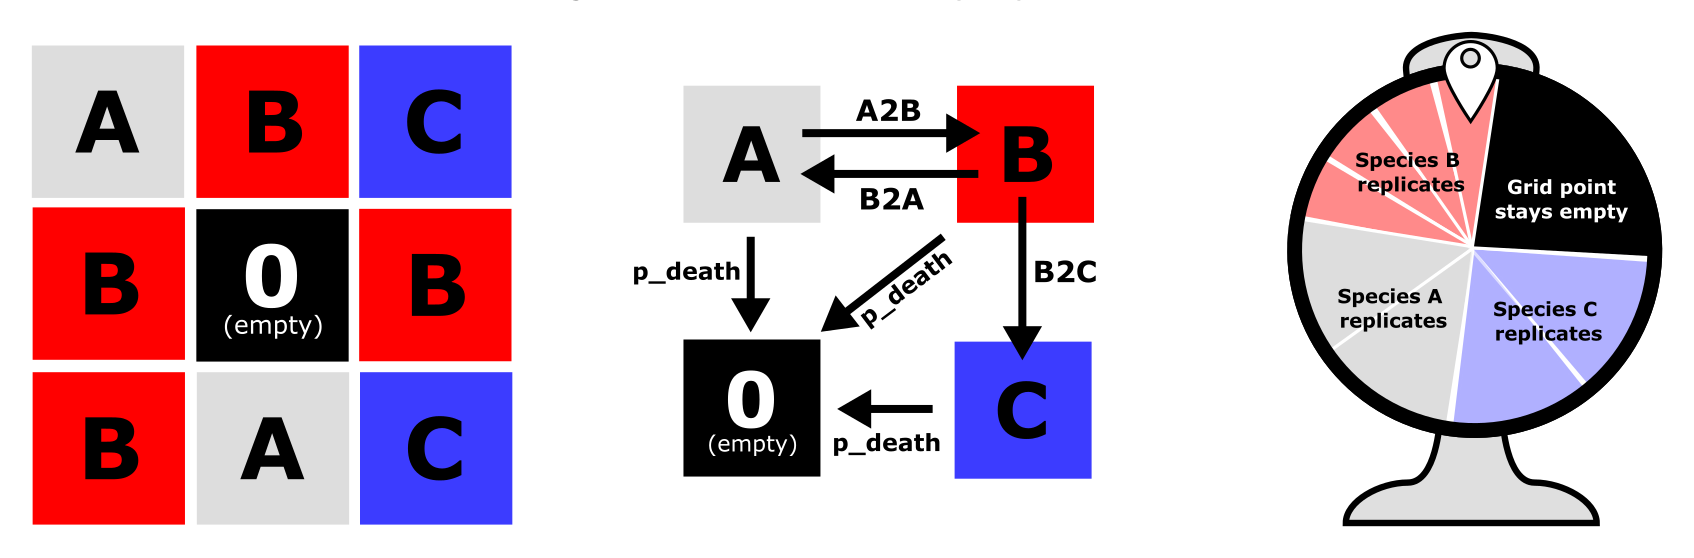
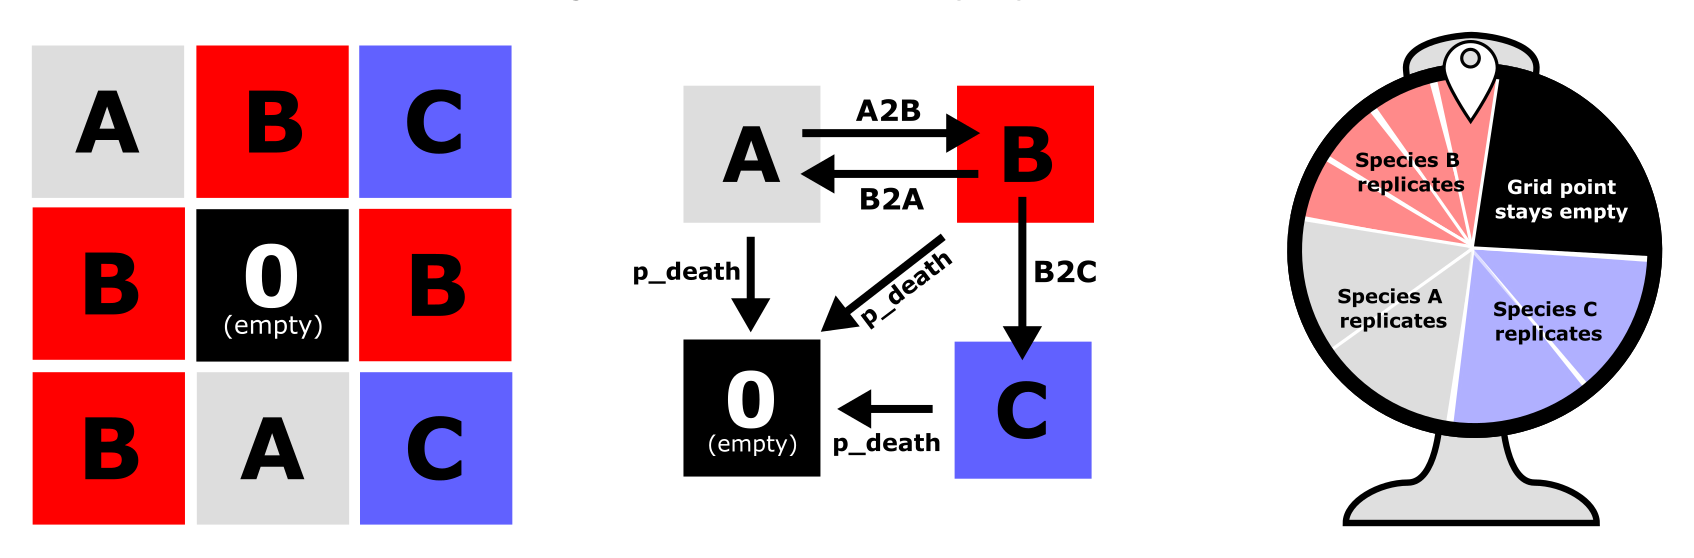
Updated TE model for revision

Changed region(s): [[0.2149, 0.0609, 0.307, 0.3656], [0.2149, 0.6398, 0.307, 0.9444], [0.5525, 0.6093, 0.6446, 0.8835]]

diff --git a/docs/index.html b/docs/index.html
@@ -36,9 +36,9 @@
                 ncol : 200,            
                 nrow : 200,		                                            // dimensions of the grid to build                
                 scale : 2,				                                    // scale of the grid (nxn pixels per grid point)            
-                statecolours: {'species':{1:"silver",                      // Sets up colours of states (here 1,2,3 = A,B,C). Can be a colour name or a hexadecimal colour. 
-                                        2:"teal",                          // If your state it not defined, it won't be drawn and you'll see the grid-background colour (default: black)
-                                        3:"gold"}}                 
+                statecolours: {'species':{1:"#DDDDDD",                      // Sets up colours of states (here 1,2,3 = A,B,C). Can be a colour name or a hexadecimal colour. 
+                                      2:"red",                          // If your state it not defined, it won't be drawn and you'll see the grid-background colour (default: black)
+                                      3:"#3030ff"}}              
         }
 
         
@@ -46,7 +46,7 @@
         
         sim.makeGridmodel("cheaters")                                        // Make a new gridmodel named cheater
         sim.initialGrid(sim.cheaters,'species',1,0.33,2,0.33,3,0.33)         // Place the three 'species' in grid points (33% A, 33% B, 33% C)            
-        sim.createDisplay("cheaters","species")                              // Display the 'species' property of the cheater grid
+        sim.createDisplay("cheaters","species","Cacatoo example")                              // Display the 'species' property of the cheater grid
 
         sim.cheaters.nextState = function(i,j)                               // Define the next-state function. This example is two mutualists and a cheater
         {         
@@ -144,11 +144,12 @@
             </td>
             <td>    <div id="form_holder"></div>
             </td>
-            <td>    <br><br><br><br>    <div id="graph_holder"> </div>
+            <td>    <br><br><br><br>    </div>
             </div>
             </td>
         </tr>
     </table>
+    <div id="graph_holder">
 </center>
     <br><br>
    

diff --git a/docs/overview.html b/docs/overview.html
@@ -24,12 +24,37 @@
     <h1 class="page-title"><a href="https://github.com/bramvandijk88/cacatoo"><img src="images/elephant_cacatoo_small.png"></a> <b>Overview</b> </img></h1>
 
 Cacatoo is a javascript-library that simulates discrete individuals, and how they interact, on a grid. Individual-based models are a powerful method to
-explore intractable biological systems and therewith generate new insights or hypotheses. In this tutorial, I will briefly explain the motivation behind 
-Cacatoo, where 
-the base "scaffolding" of a Cacatoo model, and XXX
+explore intractable biological systems and therewith generate new insights or hypotheses. In this tutorial, I will briefly explain:
 
-Grids are a computationally efficient way to
-simulate spatial structure, 
+<ol>
+    <li> Why I made Cacatoo </li>
+    <ul><li>Why grid-based models are awesome</li></ul>
+    <ul><li>The need to upgrade Cash2.1</li></ul>
+    <ul><li>Why Javascript?</li></ul>
+
+    <li> How to get Cacatoo </li>
+    <ul><li>Code and explore online (replit)</li></ul>
+    <ul><li>Clone and explore offline</li></ul>    
+
+    <li> The basic structure of a Cacatoo model </li>
+    <ul><li>Setup</li></ul>
+    <ul><li>Defining the rules</li></ul>
+    <ul><li>Main simulation loop</li></ul>
+
+    <li> The advantage of a dynamic programming language </li>
+</ol>
+<br>
+<hr>
+<br>
+<h3> Why I made Cacatoo</h3>
+
+The first thing you may be wondering is: why would I model biology on a grid? Would a continuous space not be much more realistic, where
+individuals can move freely and interact when they are closeby? Although Cacatoo may include such models in the future, here is why it 
+primarily about grid-based models for now:
+
+
+<br><br>
+
 
 as it avoids having to calculate the distance between two individuals when interations take place
  Grid points can be either empty, or occupied by one or more individuals. Precisely

diff --git a/examples/02_advanced/08_ode_serial_transfer.html b/examples/02_advanced/08_ode_serial_transfer.html
@@ -33,7 +33,7 @@ function cacatoo()
             nrow : 120,		            // dimensions of the grid to build
             wrap : [true, true],       // Wrap boundary [COLS, ROWS]   
             scale : 3,				    // scale of the grid (nxn pixels per grid cell)
-            statecolours: {'alive':{1:'purple'}},   // The background state '0' is never drawn
+            statecolours: {'alive':{1:'blue'}},   // The background state '0' is never drawn
             skipbg_state: true,                      // Don't draw 0-state on grid (faster)
             graph_interval: 1,
             graph_update: 5,
@@ -52,9 +52,9 @@ function cacatoo()
     sim.makeGridmodel("batchculture"); 
     sim.batchculture.colourViridis("external_resources", 100)
     sim.batchculture.colourViridis("internal_resources", 100)
-    sim.createDisplay("batchculture","alive")
-    sim.createDisplay("batchculture","external_resources")
-    sim.createDisplay("batchculture","internal_resources")
+    sim.createDisplay("batchculture","internal_resources","Internal resources in cells")
+    sim.createDisplay("batchculture","external_resources","External resources")
+    
     // sim.resource_e.colourRamp('resources_e',[0,0,0],[64, 224, 208],100)
     
     

diff --git a/examples/02_advanced/09_petridish.html b/examples/02_advanced/09_petridish.html
@@ -29,7 +29,7 @@ function cacatoo()
 
     let config = {
             title: "Petridish with local growth",
-            description: "",
+            description: "(mutational rescue of elevated death rate)",
             maxtime: 10000000,
             fastmode: false,             // If possible, fast-mode will update the sim with more than 60 FPS. 
                                         // Note: fastmode is only useful/recommended if the sim can readily run 
@@ -47,9 +47,9 @@ function cacatoo()
     sim = new Simulation(config)
 
     sim.makeGridmodel("cells"); 
-    sim.createDisplay("cells","alive")    
+    sim.createDisplay("cells","alive", "Colony growth")    
     sim.makeGridmodel("cells_wellmixed"); 
-    sim.createDisplay("cells_wellmixed","alive")    
+    sim.createDisplay("cells_wellmixed","alive", "Well-mixed population")    
     
     let birth_rate = 0.85
     

diff --git a/examples/01_beginner/04_interacting_grids.html b/examples/01_beginner/04_interacting_grids.html
@@ -39,12 +39,12 @@ function cacatoo()
 
     sim.makeGridmodel("gol");    
     sim.initialGrid(sim.gol,'alive',1,0.1)        
-    sim.createDisplay("gol","alive")
+    sim.createDisplay("gol","alive","Game of life (solo)")
 
     sim.makeGridmodel("vote");
     sim.initialGrid(sim.vote,'left',1,0.5)        // Give each grid-point object a new property names 'val', with 50% 1, otherwise 0
     sim.initialGrid(sim.vote,'overlay',0,1.0)        // Give each grid-point object a new property names 'val', with 50% 1, otherwise 0
-    sim.createDisplay("vote","overlay")
+    sim.createDisplay("vote","overlay","Vote / Game of life interact")
 
     sim.gol.nextState = function(i,j)                 // Define the next-state function. This example is game of life + vote
     {   

diff --git a/docs/petridish.html b/docs/petridish.html
@@ -12,9 +12,9 @@
 -->
 
 <html>
-    <script src="./cacatoo.js"></script>                 <!-- Include cacatoo library (compiled with rollup) -->
-    <script src="./all.js"></script>                      <!-- Include other libraries (concattenated in 1 file) -->
-    <link rel="stylesheet" href="./cacatoo.css">        <!-- Set style sheet -->
+    <script src="./scripts/cacatoo.js"></script>                 <!-- Include cacatoo library (compiled with rollup) -->
+    <script src="./scripts/all.js"></script>                      <!-- Include other libraries (concattenated in 1 file) -->
+    <link rel="stylesheet" href="./styles/cacatoo.css">        <!-- Set style sheet -->
 
 <script>
 /*-----------------------Start user-defined code ---------------------*/

diff --git a/examples/02_advanced/cheater.js b/examples/02_advanced/cheater.js
@@ -34,7 +34,7 @@ function cacatoo()
             graph_update: 50,
             statecolours: {'species':{1:"#DDDDDD",                      // Sets up colours of states (here 1,2,3 = A,B,C). Can be a colour name or a hexadecimal colour. 
                                       2:"red",                          // If your state it not defined, it won't be drawn and you'll see the grid-background colour (default: black)
-                                      3:"blue"}}                 
+                                      3:"#3030ff"}}                 
     }
 
     /*
